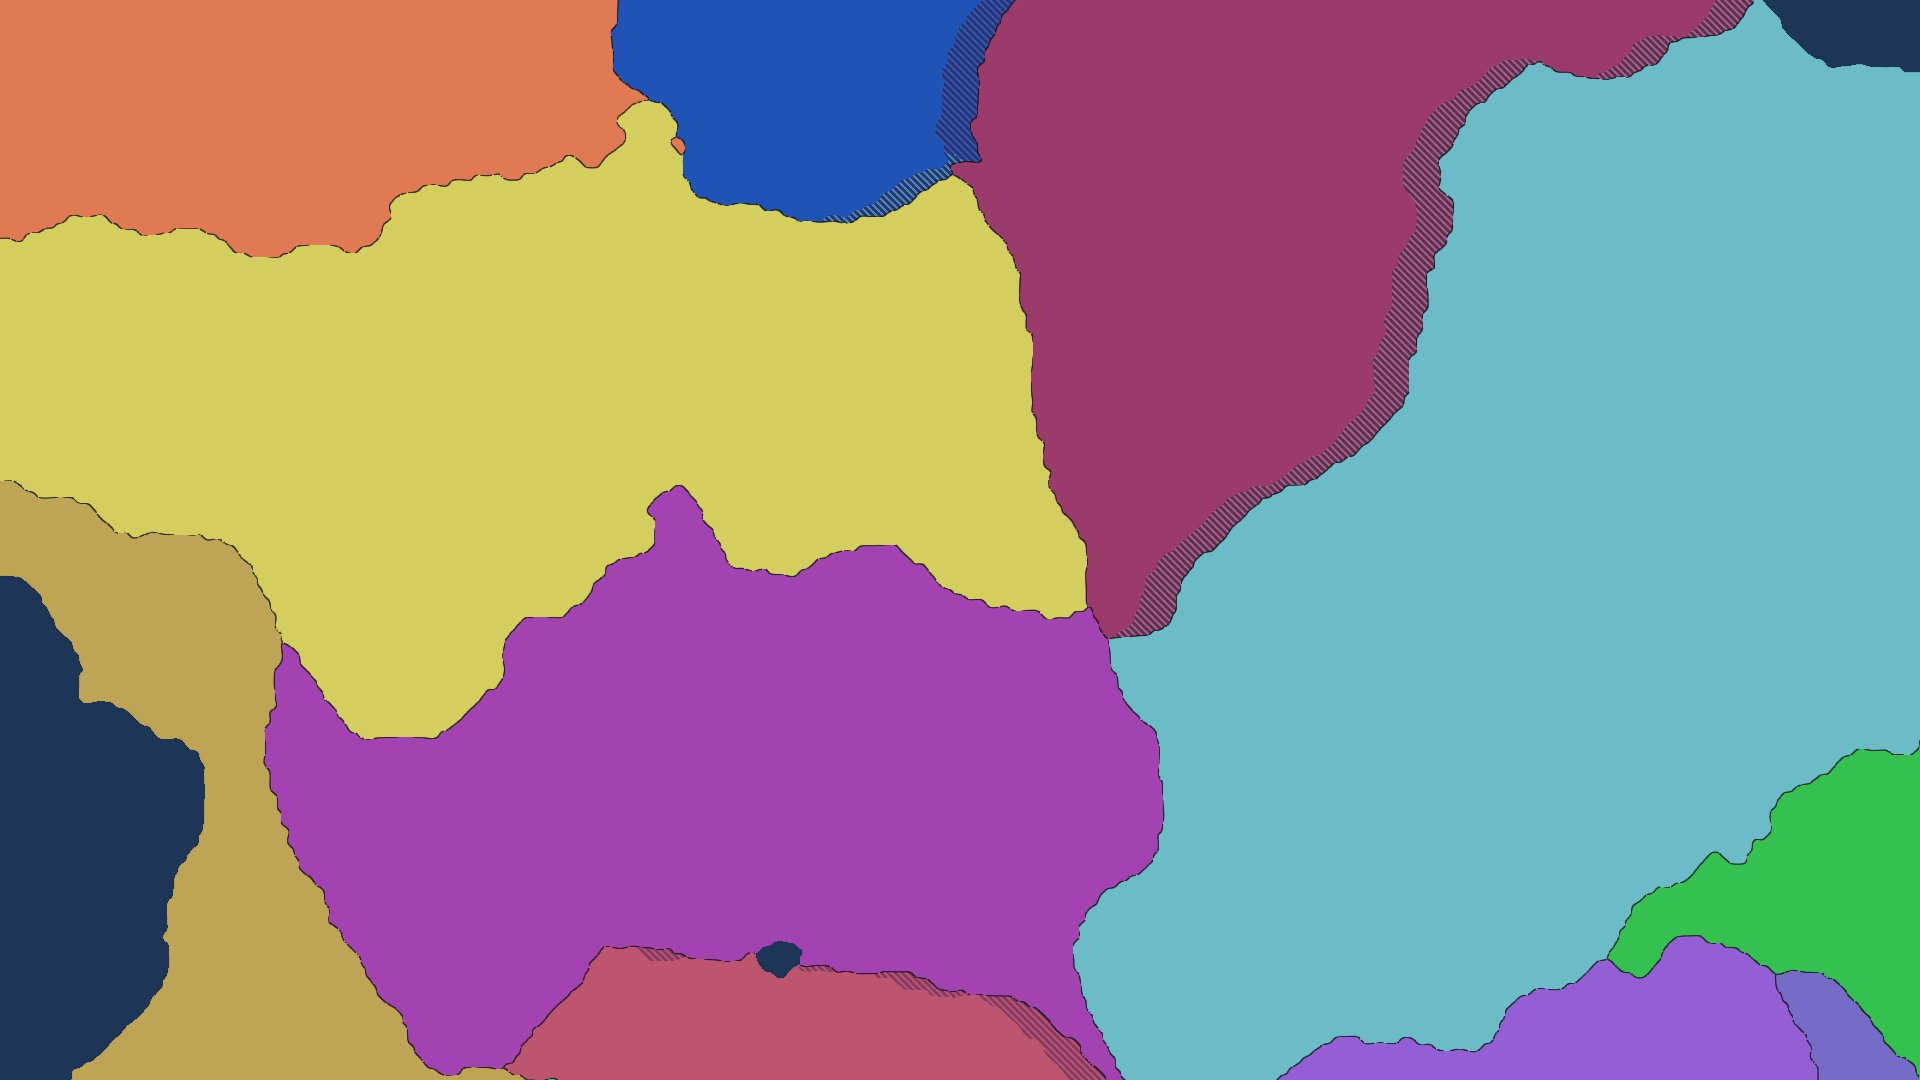
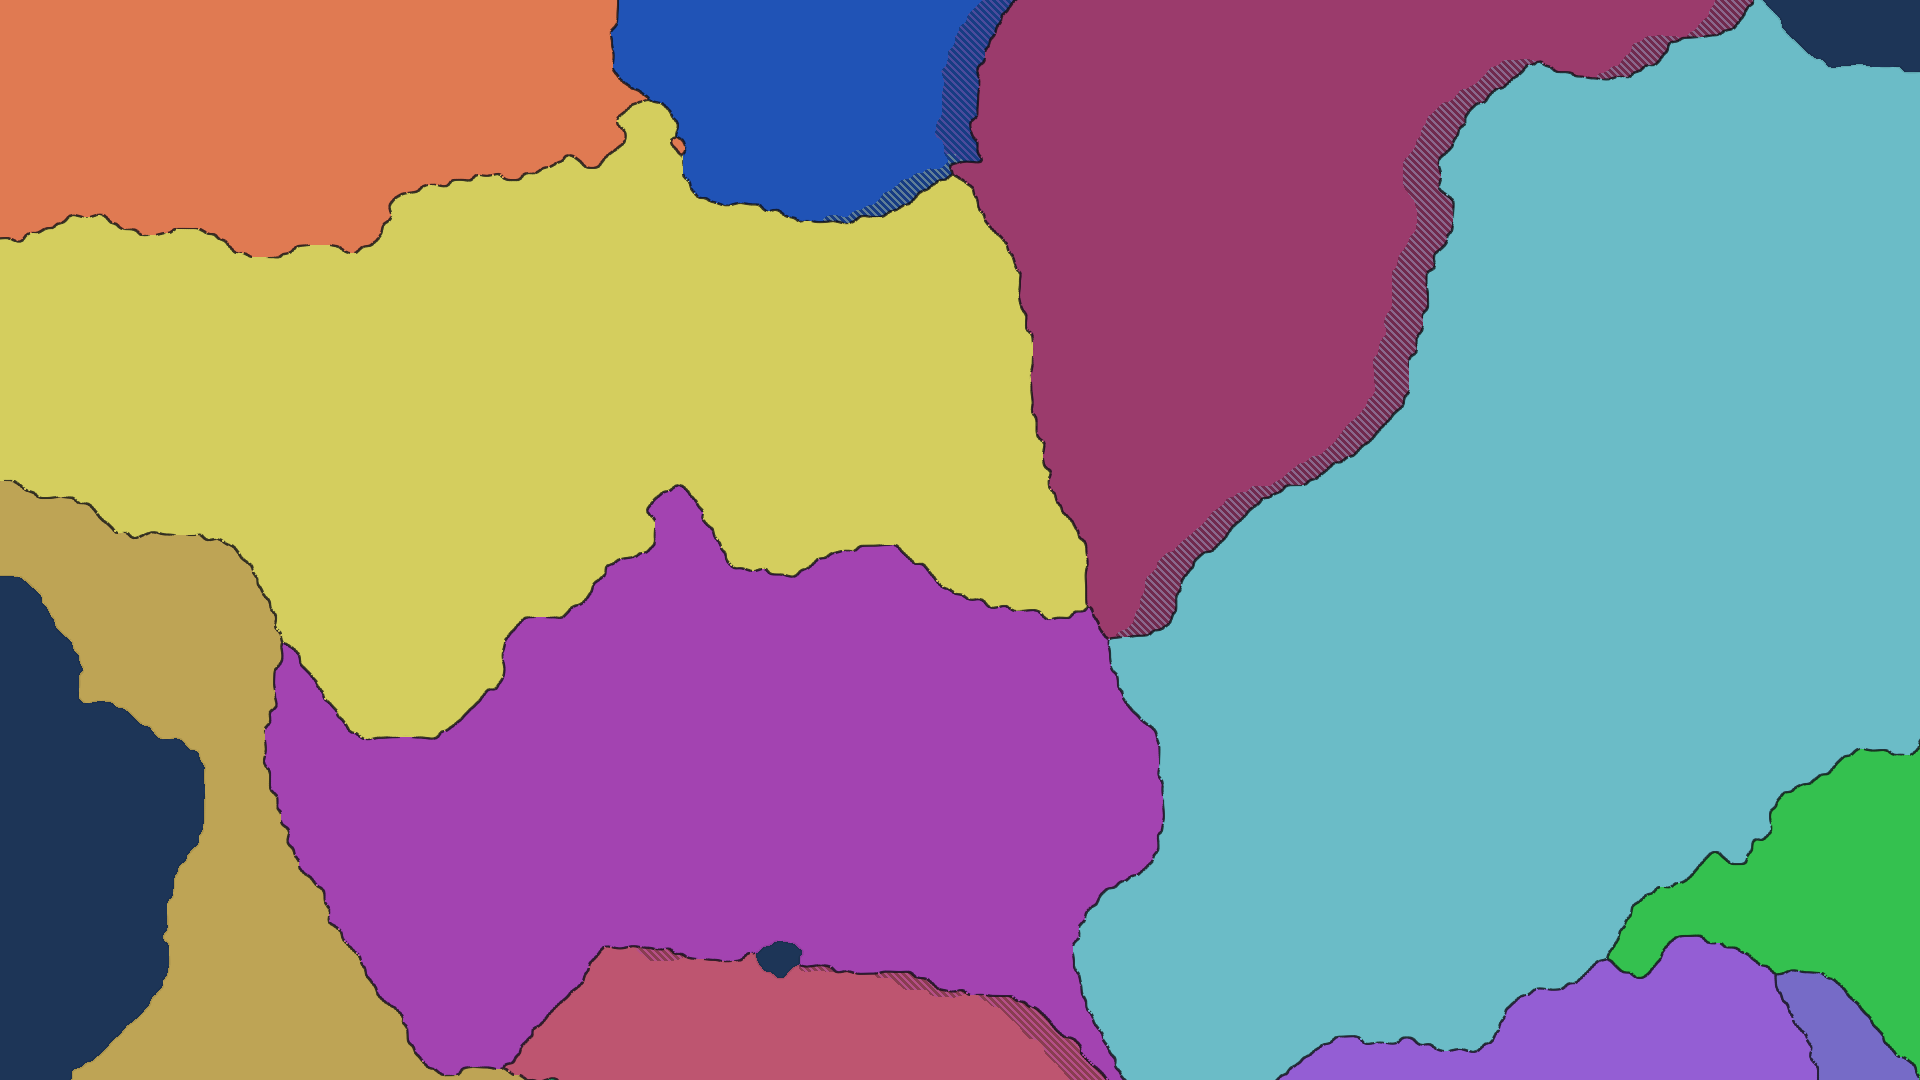
Phase 0 audit remediation: snapshot build timing, AoC reference comparison (zoom-scaled borders), extra review pass

diff --git a/tests/unit/snapshot-perf.test.ts b/tests/unit/snapshot-perf.test.ts
@@ -1,0 +1,66 @@
+import { describe, expect, it } from 'vitest';
+import type { FromWorker, Snapshot } from '../../src/shared/protocol';
+import { Sim } from '../../src/sim/sim';
+import { TILE, World } from '../../src/sim/world';
+import { SimServer } from '../../src/worker/server';
+
+// SPEC §8 budget "snapshot build ≤ 2 ms" (PLAN 0.13 follow-up from the Phase 0 audit).
+// Worst realistic steady state at M size: 2048×1024 cells, 4000 formations, 32 dirty tiles
+// per snapshot, 200 queued events. The one-off full sync (all 512 tiles) is reported too.
+
+function bigWorld(): World {
+  const w = new World(1, 2048, 1024);
+  for (let n = 1; n <= 150; n++) w.nations.cols.color[w.nations.create()] = n * 997;
+  for (let i = 0; i < w.cells.owner.length; i++) {
+    w.cells.owner[i] = 1 + (i % 150);
+    w.cells.controller[i] = 1 + (i % 150);
+  }
+  for (let k = 0; k < 4000; k++) {
+    const id = w.formations.create();
+    w.formations.cols.nation[id] = 1 + (k % 150);
+    w.formations.cols.x[id] = (k * 7.3) % 2048;
+    w.formations.cols.y[id] = (k * 3.1) % 1024;
+    w.formations.cols.strength[id] = 1000;
+  }
+  return w;
+}
+
+describe('snapshot build time (M size)', () => {
+  it('stays within 2 ms for a steady-state snapshot', () => {
+    let last: Snapshot | null = null;
+    const server = new SimServer((m: FromWorker) => {
+      if (m.type === 'snapshot') last = m.snap;
+    });
+    const sim = new Sim({ scenario: 'toy', seed: 1 });
+    (sim as unknown as { world: World }).world = bigWorld();
+    server.sim = sim;
+    const world = sim.world;
+    const ack = (): void => server.handle({ type: 'ack', seq: last!.seq, buffers: last!.buffers }, 0);
+    const sub = { bbox: [0, 0, Infinity, Infinity] as [number, number, number, number], z: 0, tier: 0 as const, wantsElements: false };
+
+    world.out.markAllDirty();
+    let t0 = performance.now();
+    server.handle({ type: 'subscribe', sub }, 0); // forces a send: full sync
+    const fullMs = performance.now() - t0;
+    expect(last!.tiles.count).toBe(512);
+    ack();
+
+    const times: number[] = [];
+    for (let r = 0; r < 60; r++) {
+      for (let k = 0; k < 32; k++) world.out.dirtyTiles[(r * 37 + k * 13) % world.out.dirtyTiles.length] = 1;
+      for (let e = 0; e < 200; e++) world.out.emit(r, 1, e, 1, (e * 9) % 2048, (e * 5) % 1024);
+      server['drainEvents'](world);
+      t0 = performance.now();
+      server.handle({ type: 'subscribe', sub }, 0);
+      times.push(performance.now() - t0);
+      expect(last!.formations.count).toBe(4000);
+      expect(last!.tiles.count).toBe(32);
+      ack();
+    }
+    times.sort((a, b) => a - b);
+    const median = times[30]!;
+    console.log(`snapshot build at M: full sync ${fullMs.toFixed(2)} ms (512 tiles), steady median ${median.toFixed(3)} ms, p95 ${times[57]!.toFixed(3)} ms`);
+    expect(TILE).toBe(64);
+    expect(median).toBeLessThan(2);
+  });
+});

diff --git a/src/app/MapView.ts b/src/app/MapView.ts
@@ -102,15 +102,15 @@ export class MapView {
     return (lift(pal[o]!) << 16) | (lift(pal[o + 1]!) << 8) | lift(pal[o + 2]!);
   }
 
-  private resize(): number {
+  /** Matches the backing store to the CSS size; returns true when it changed. */
+  private resize(): boolean {
     const dpr = window.devicePixelRatio || 1;
     const w = Math.max(1, Math.round(this.canvas.clientWidth * dpr));
     const h = Math.max(1, Math.round(this.canvas.clientHeight * dpr));
-    if (this.canvas.width !== w || this.canvas.height !== h) {
-      this.canvas.width = w;
-      this.canvas.height = h;
-    }
-    return dpr;
+    if (this.canvas.width === w && this.canvas.height === h) return false;
+    this.canvas.width = w;
+    this.canvas.height = h;
+    return true;
   }
 
   private frame(now: number): void {
@@ -122,10 +122,7 @@ export class MapView {
     const c = this.controller.cam;
     const camMoved = c.cx !== this.lastCam.cx || c.cy !== this.lastCam.cy || c.scale !== this.lastCam.scale;
     const interpolating = this.tickMs > 0 && now - this.snapArrival < this.tickMs * 1.5;
-    const resized =
-      this.canvas.width !== Math.round(this.canvas.clientWidth * (window.devicePixelRatio || 1)) ||
-      this.canvas.height !== Math.round(this.canvas.clientHeight * (window.devicePixelRatio || 1));
-    if (this.dirty || camMoved || interpolating || resized) {
+    if (this.resize() || this.dirty || camMoved || interpolating) {
       this.draw(now);
       this.dirty = false;
       this.lastCam = { ...c };
@@ -135,7 +132,8 @@ export class MapView {
 
   /** Renders one frame (also used by tests for deterministic screenshots). */
   draw(now = performance.now()): void {
-    const dpr = this.resize();
+    this.resize();
+    const dpr = window.devicePixelRatio || 1;
     const cam = this.controller.cam;
     const t = this.tickMs > 0 ? (now - this.snapArrival) / this.tickMs : 1;
     this.map.draw(cam, dpr);

diff --git a/src/render/map/MapRenderer.ts b/src/render/map/MapRenderer.ts
@@ -13,6 +13,15 @@ export interface MapRendererOptions {
   warp?: number;
 }
 
+/**
+ * Border width in CSS px for a zoom level: the base width at overview scales, growing with
+ * sqrt(px per cell) up to 3.5 px at operational zoom. AoC's thick dark outlines are what make
+ * nations readable (reference comparison, Phase 0 audit); a constant hairline reads weakly.
+ */
+export function borderWidthPx(base: number, scale: number): number {
+  return Math.min(3.5, base * Math.max(1, Math.sqrt(scale / 2)));
+}
+
 export class MapRenderer {
   readonly gl: WebGL2RenderingContext;
   readonly w: number;
@@ -121,7 +130,7 @@ export class MapRenderer {
       uViewport: [gl.drawingBufferWidth, gl.drawingBufferHeight],
       uDpr: dpr,
       uWrapX: this.opts.wrapX ? 1 : 0,
-      uBorderPx: this.opts.borderPx,
+      uBorderPx: borderWidthPx(this.opts.borderPx, cam.scale),
       uWarp: this.opts.warp,
     });
     gl.bindVertexArray(this.vao);

diff --git a/tests/unit/camera.test.ts b/tests/unit/camera.test.ts
@@ -70,3 +70,12 @@ describe('camera math', () => {
     expect(wrapOffsets({ cx: 10, cy: 0, scale: 10 }, { ...GEO, wrapX: false }, VW)).toEqual([0]);
   });
 });
+
+describe('map border width', () => {
+  it('grows with zoom from the base width and caps at 3.5 px', async () => {
+    const { borderWidthPx } = await import('../../src/render/map/MapRenderer');
+    expect(borderWidthPx(1.25, 0.5)).toBe(1.25);
+    expect(borderWidthPx(1.25, 8)).toBeCloseTo(2.5, 9);
+    expect(borderWidthPx(1.25, 100)).toBe(3.5);
+  });
+});

diff --git a/PROGRESS.md b/PROGRESS.md
@@ -518,3 +518,32 @@ How each step was applied to tasks 0.4–0.22 (0.1–0.3 were done in an earlier
 | 7 Commit, tick, PROGRESS, parity | Every task: one commit, PLAN tick and a PROGRESS entry. `npm run parity` ran in every `check` from 0.8 on. | PARITY rows touched by 0.17, 0.20 and 0.21 were updated in the 0.22 review, not at each task. 0.5/0.6/0.7 were docs-only commits made without a full `check`. 0.16 was committed with a lint error, fixed in the next commit; since then commits are gated on the `check` exit code. |
 | 8 Blockers after 3 failed attempts | Never triggered; no task needed 3 attempts. | — |
 | 9 Review every ~5 iterations | Full review at 0.22: SPEC drift fixes (v0.2), dead code removed, missing end-to-end test added. Lighter refactors happened during tasks (bench helpers deduplicated in 0.15, `halveElevation` shared in 0.18). | Only one formal review over 19 tasks; the cadence asks for ~4. Phase 1 will hold a review every 5 tasks (after 1.5, 1.10, …). |
+
+## 2026-10-02 — Phase 0 audit remediation (gaps closed where they can still be acted on)
+- **Step 1:** re-read PROMPT.md EVERY ITERATION, the PLAN status (all 0.x ticked), the PROGRESS tail,
+  BLOCKERS (no open items) and `critic/` (absent) before this pass.
+- **Step 7 (ungated docs commits):** `git diff-tree` shows b0ab326 (0.5), 0aba4cb (0.6) and e2bc184
+  (0.7) changed only `.md` files. Their code is byte-identical to 3ba274f (0.4), which passed
+  `npm run check`. The 0.16 lint slip was fixed in ec41751. PARITY rows for 0.17/0.20/0.21 were updated
+  in 0.22.
+- **Step 6 (snapshot build ≤ 2 ms not measured):** `tests/unit/snapshot-perf.test.ts` measures it at M
+  size (2048×1024, 150 nations, 4000 formations, 32 dirty tiles + 200 events per snapshot): steady median
+  **0.32 ms**, p95 0.62 ms. The one-off full sync of 512 tiles takes 8.1 ms (load/save only). The test
+  asserts median < 2 ms.
+- **Step 5 (no reference comparison after 0.6):** compared AoC trailer frame `0014` (Central Europe)
+  side by side with our `A-webgl2-map-z1-region` render. The composite stays in the scratchpad because
+  it contains AoC material.
+  - AoC's ~2-tile dark outlines make nations read instantly; our constant 1.25 px line read weakly at
+    operational zoom.
+  - Fixed: `borderWidthPx` (`src/render/map/MapRenderer.ts`) grows border width with sqrt(px per
+    cell) from 1.25 px to a 3.5 px cap. Re-benched (GPU 0.41–0.47 ms, unchanged) and re-viewed
+    `docs/bench/A-webgl2-map-z{1,2}`: borders are now clearly legible and still smooth. A faint
+    anti-aliasing speckle inside the line at 48 px/cell is noted for 1.28.
+  - Other differences belong to later tasks: AoC occupation is a darker occupier tint with its own
+    outline (ours: hatching; to revisit in 1.15/1.28 against TEXT "stripes"); name labels + strength
+    numbers + city dots (1.5, 1.29, Phase 2 T1 markers).
+- **Step 9 (one review instead of ~4):** an additional review pass.
+  - Removed duplicated resize detection in `MapView.frame` (`resize()` now reports changes).
+  - Added a unit test for the border width.
+  - Re-checked exported helpers for dead code (none besides the stat removed in 0.22).
+  - From Phase 1 on, a review pass runs every 5 tasks.
